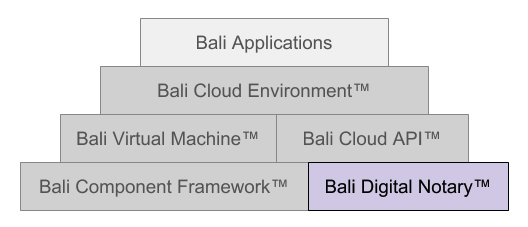
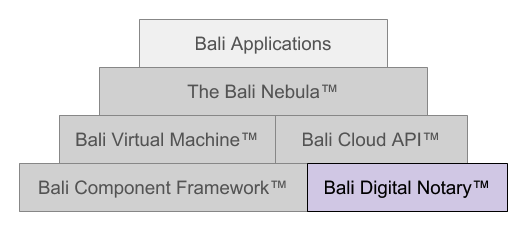
Changed 'Bali Cloud Environment' to 'Bali Nebula™'.

diff --git a/src/DigitalNotary.js b/src/DigitalNotary.js
@@ -12,9 +12,9 @@
 /*
  * This module uses the singleton pattern to provide an object that implements a
  * digital notary interface that is used for account identity and document notarization
- * purposes within the Bali Cloud Environment™. If a test directory is specified,
- * it will be created and used as the location of the local key store. Otherwise, a
- * proxy to a hardware security module will be used for all private key operations.
+ * purposes within the Bali Nebula™. If a test directory is specified, it will be
+ * created and used as the location of the local key store. Otherwise, a proxy
+ * to a hardware security module will be used for all private key operations.
  */
 var fs = require('fs');
 var configDirectory = require('os').homedir() + '/.bali/';  // default configuration directory

diff --git a/README.md b/README.md
@@ -1,7 +1,7 @@
 ![Logo](https://raw.githubusercontent.com/craterdog-bali/bali-project-documentation/master/images/CraterDogLogo.png)
 
 ### Bali Digital Notary
-This project provides a JavaScript version of the digital notary classes for the [_Bali Cloud Environment™_](https://github.com/craterdog-bali/bali-project-documentation/wiki). It defines a format for digitally notarized documents and a digital notary proxy to a hardware security module (HSM) that handles all private key operations including generating public-private key pairs. It is designed to work with documents that were exported from components created using the [_Bali Component Framework™_](https://github.com/craterdog-bali/js-bali-component-framework/wiki) but will work with most string based documents.
+This project provides a JavaScript version of the digital notary classes for the [_Bali Nebula™_](https://github.com/craterdog-bali/bali-project-documentation/wiki). It defines a format for digitally notarized documents and a digital notary proxy to a hardware security module (HSM) that handles all private key operations including generating public-private key pairs. It is designed to work with documents that were exported from components created using the [_Bali Component Framework™_](https://github.com/craterdog-bali/js-bali-component-framework/wiki) but will work with most string based documents.
 
 ![Pyramid](https://raw.githubusercontent.com/craterdog-bali/js-bali-digital-notary/master/docs/images/BaliPyramid-DigitalNotary.png)
 
